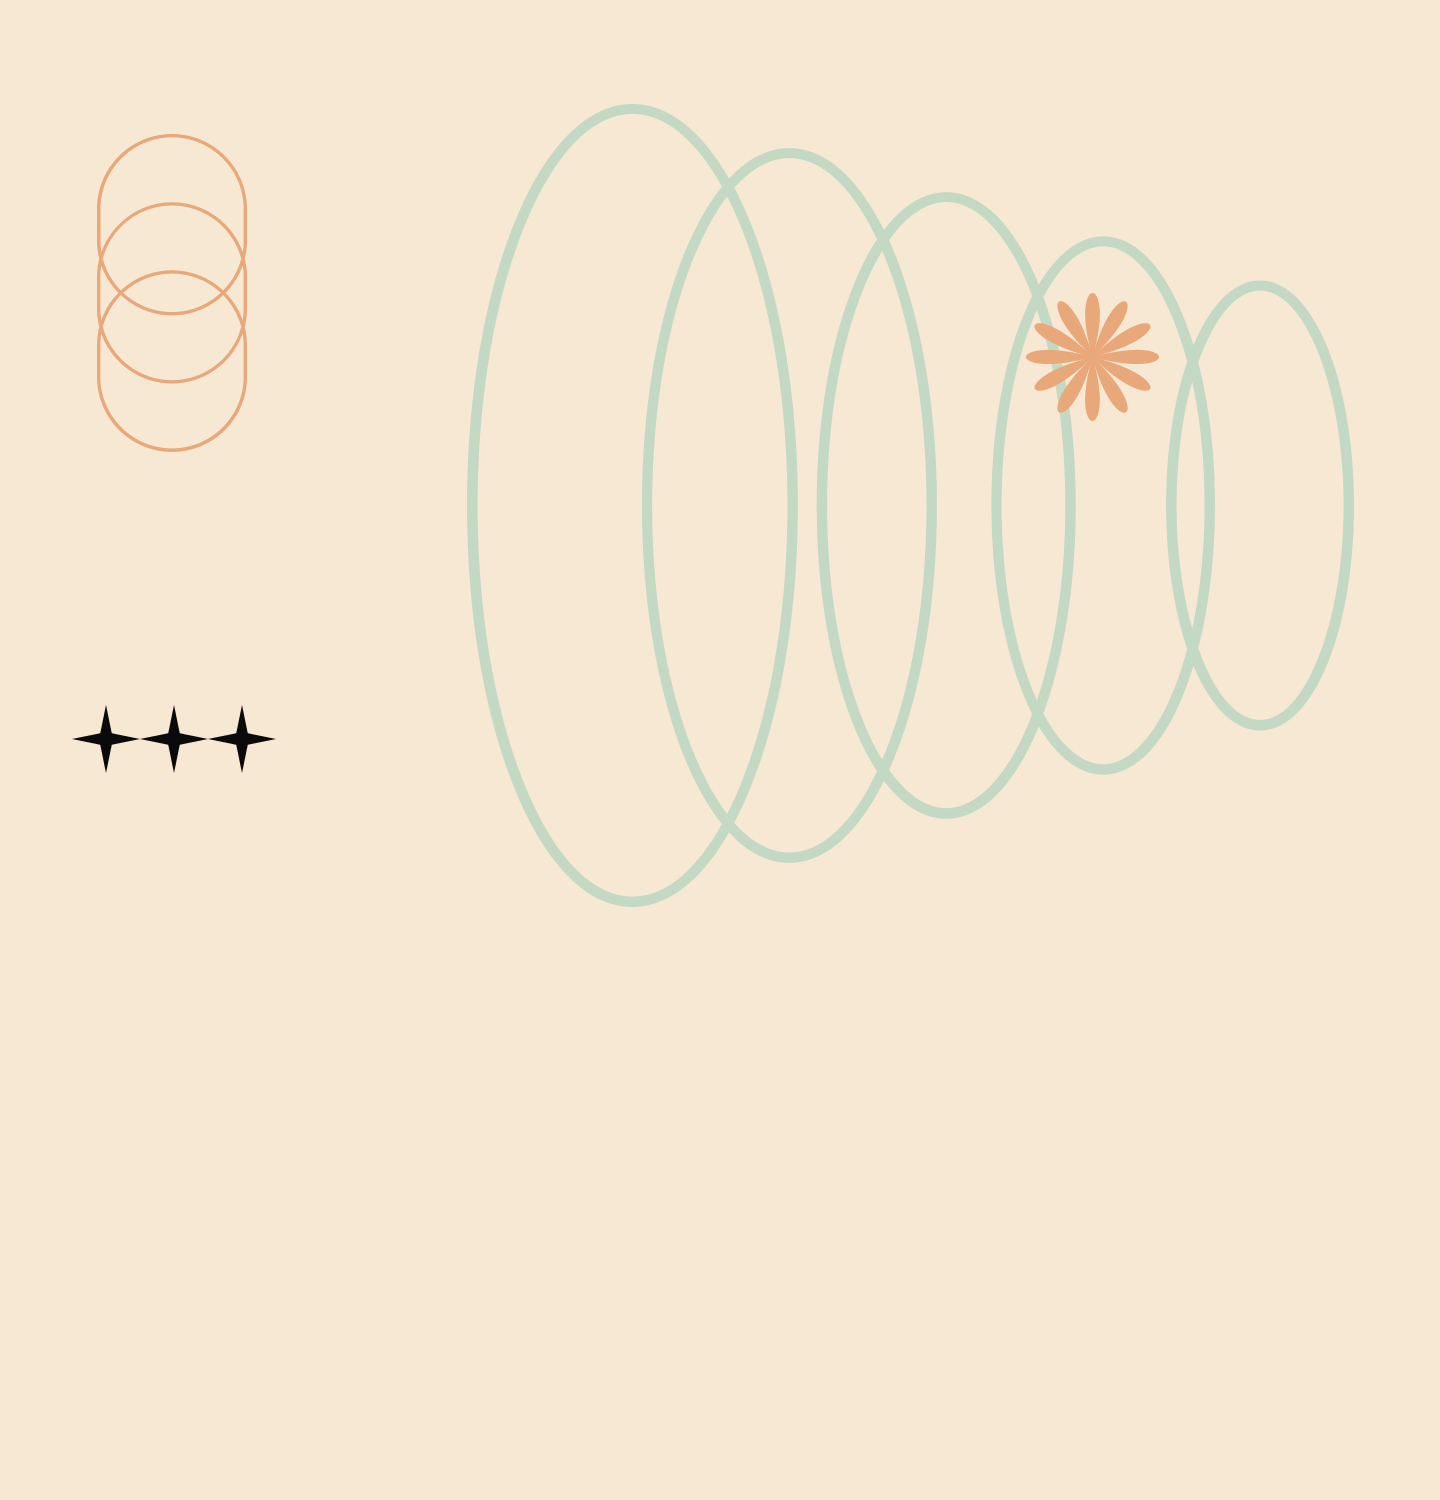
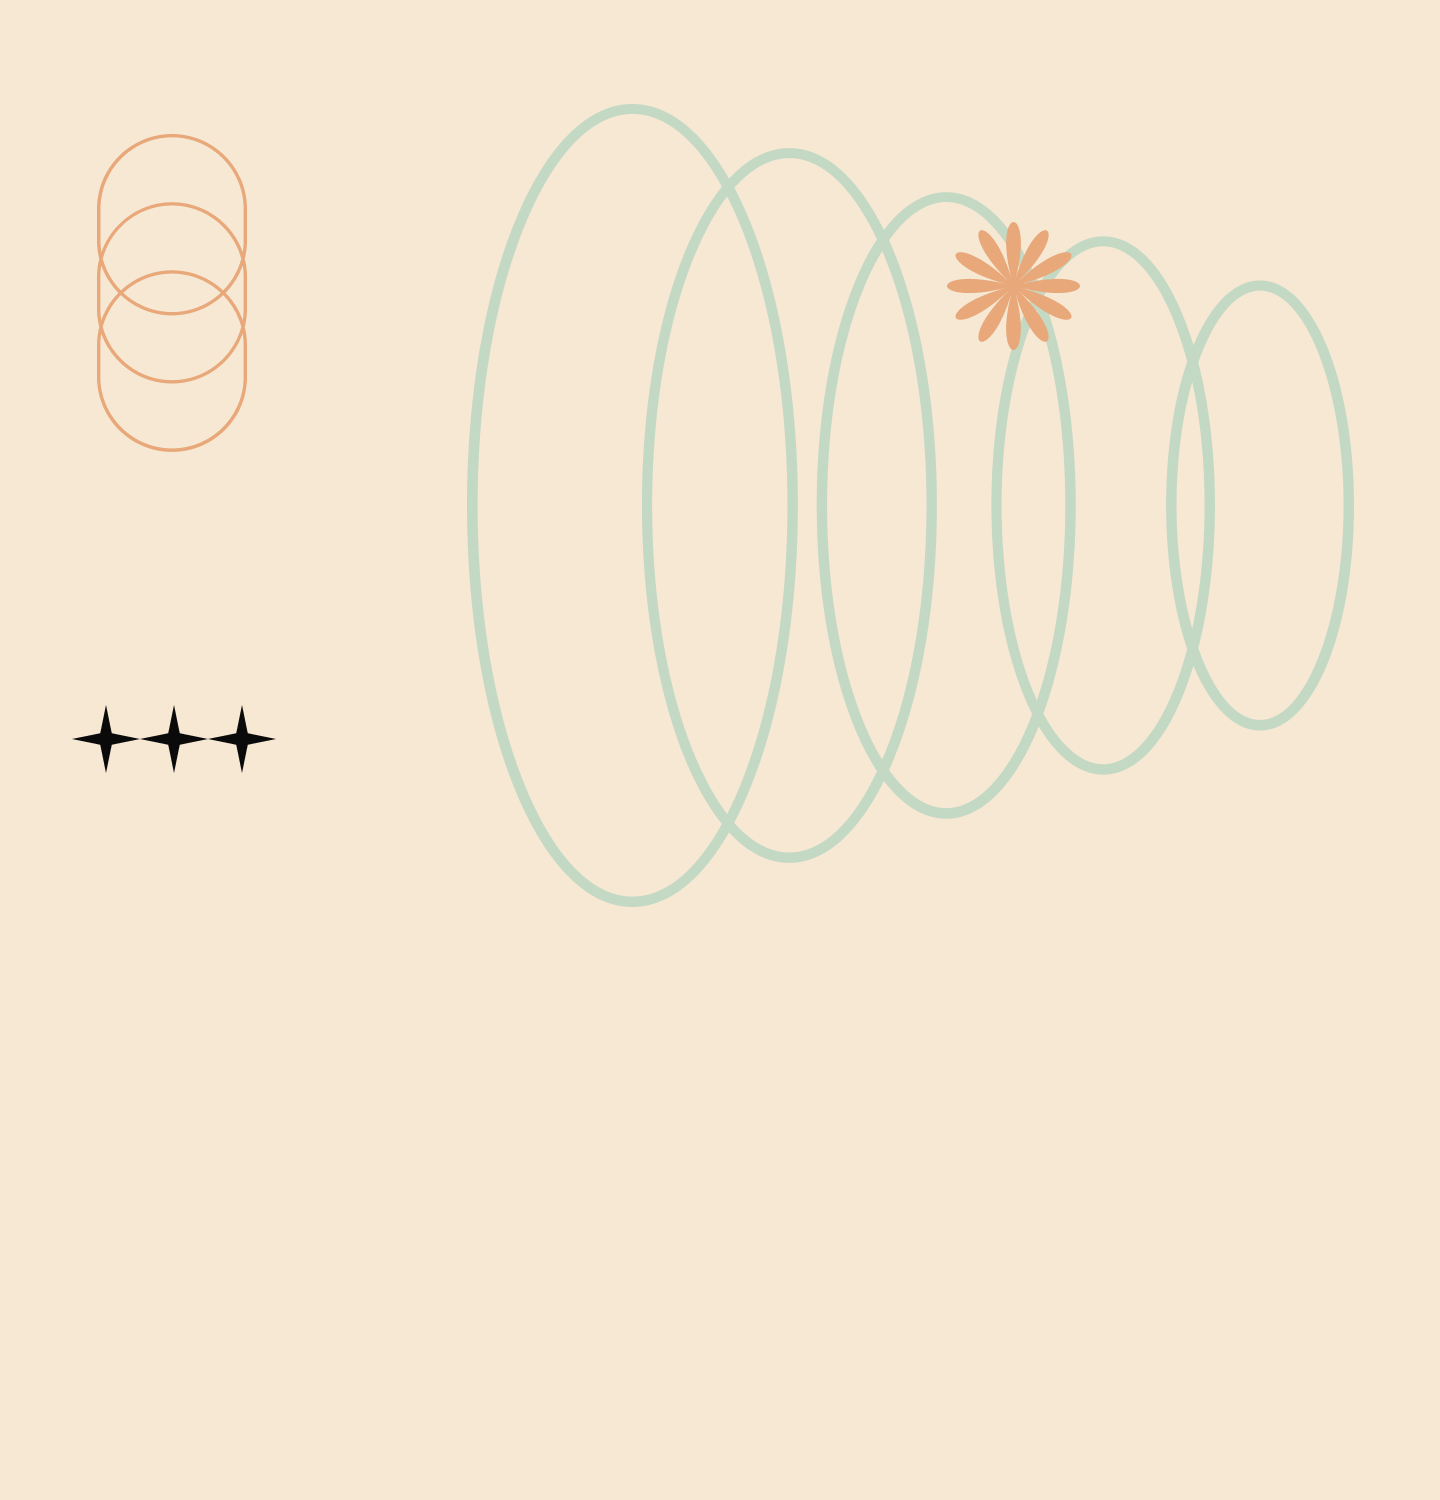
Add navigation links and update styles for homepage and works page

Changed region(s): [[0.6562, 0.1533, 0.8125, 0.276]]

diff --git a/Works.html b/Works.html
@@ -1,0 +1,50 @@
+<!doctype html>
+<html lang="en">
+  <head>
+    <meta charset="UTF-8" />
+    <title>CSS exercise</title>
+    <link rel="stylesheet" href="style.css" />
+    <meta name="viewport" content="width=device-width" />
+  </head>
+  <body>
+    <nav class="nav" aria-label="Main">
+      <div class="leftSide">
+        <a class="navLink" href="Homepage.html" target="_blank">Home</a>
+        <a class="navLink" href="About.html" target="_blank">About me</a>
+        <a class="navLink" href="Works.html" target="_blank">Works</a>
+      </div>
+      <a href="Homepage.html"
+        ><img class="logo" src="navlogo.png" alt="Brutalist style logo"
+      /></a>
+      <img class="menuButton" src="Menu Button.png" alt="menu button" />
+      <div class="rightSide">
+        <a class="navLink" href="https://linkedin.com/in/parisagheisari"
+          >Linkedin</a
+        >
+        <a class="navLink" href="https://www.behance.net/parisagheisari"
+          >Behance</a
+        >
+      </div>
+    </nav>
+    <div class="main">
+      <img
+        class="backgroundImage"
+        src="background-image.png"
+        alt="background image"
+      />
+      <div class="hero"></div>
+    </div>
+    <!-- <footer>
+      <img src="footerlogo.png" alt="logo" />
+      <ul>
+        <li>
+          <a class="navLink" href="Works.html" target="_blank"></a> Contact
+        </li>
+        <li>
+          <a class="navLink" href="https://linkedin.com/in/parisagheisari"></a
+          >Linkedin
+        </li>
+      </ul>
+    </footer> -->
+  </body>
+</html>

diff --git a/style.css b/style.css
@@ -23,6 +23,7 @@ body{
 *{
     margin:0px;
     padding:0px;
+    box-sizing: border-box;
 }
 
 .nav{
@@ -65,7 +66,7 @@ body{
 height: 30px;
 width: 89px;
 }
-@media (min-width: 200px) and (max-width: 1000px) {
+@media (max-width: 1000px) {
     .navLink {
         display: none;
     }
@@ -107,14 +108,15 @@ width: 89px;
     min-height: 100%;
     position: absolute;
     z-index: -5;
-}   
+} 
+/* ---------------------------------------------------------------Home page-------------------------------------------------------------------------------   */
 .hero {
     display: flex;
     flex-direction: row;
     justify-content: space-between;
     align-items:center;
     width: 100vw;
-    padding: 64px;
+    padding: 80px;
 }
 
 
@@ -124,8 +126,9 @@ width: 89px;
     padding: 14px;
 }
 
+
 .videoFrame {
-  width: clamp(10px ,20rem ,300px);
+  width: clamp(10px ,30vw ,320px);
   aspect-ratio: 1/1;   /* or set height */
   overflow: hidden;       /* crops zoomed video */
   border-radius: 70px;     /* optional */
@@ -156,7 +159,6 @@ width: 89px;
         align-items: center;
     }
     
-    .videoFrame {
-        
-    }
 }
+/* -------------------------------------------------------------------------------------Works------------------------------------------------------------------------------------------------------------------   */
+

diff --git a/Homepage.html b/Homepage.html
@@ -9,11 +9,13 @@
   <body>
     <nav class="nav" aria-label="Main">
       <div class="leftSide">
+        <a class="navLink" href="Homepage.html" target="_blank">Home</a>
         <a class="navLink" href="About.html" target="_blank">About me</a>
         <a class="navLink" href="Works.html" target="_blank">Works</a>
-        <a class="navLink" href="Works.html" target="_blank">Contact</a>
       </div>
-      <img class="logo" src="navlogo.png" alt="Brutalist style logo" />
+      <a href="Homepage.html"
+        ><img class="logo" src="navlogo.png" alt="Brutalist style logo"
+      /></a>
       <img class="menuButton" src="Menu Button.png" alt="menu button" />
       <div class="rightSide">
         <a class="navLink" href="https://linkedin.com/in/parisagheisari"
@@ -32,7 +34,7 @@
       />
       <div class="hero">
         <div class="heroText">
-          <p>Parisa</p>
+          <p class>Parisa</p>
           <p>Gheisari</p>
         </div>
         <div class="videoFrame">
